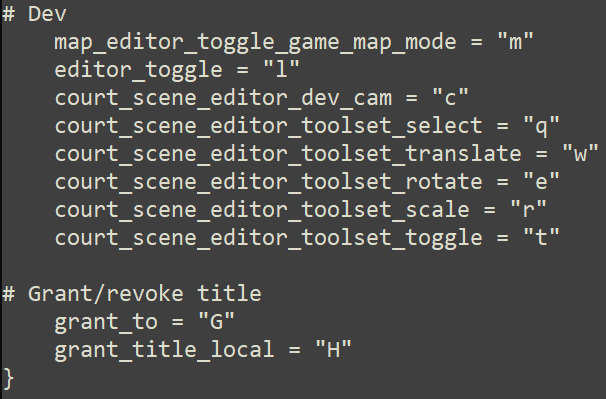
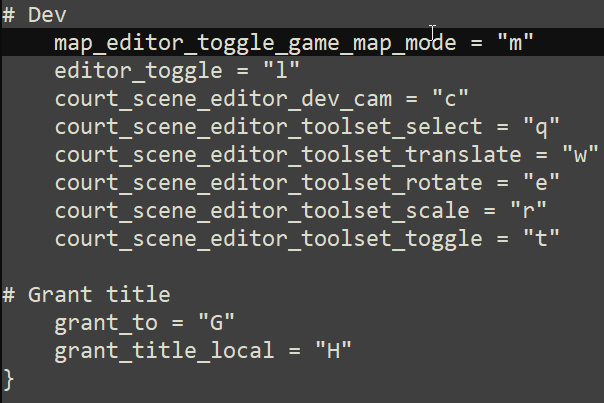
remove revoke comment

diff --git a/README.md b/README.md
@@ -16,7 +16,7 @@ Then, navigate to `game\gui` folder to find `shorcuts.shortcuts` file.
 Replace the file with mine, or open it with a text editor like notepad++, and add those lines
 
 ```
-# Grant/revoke title
+# Grant title
 	grant_to = "G"
 	grant_title_local = "H"
 ```
